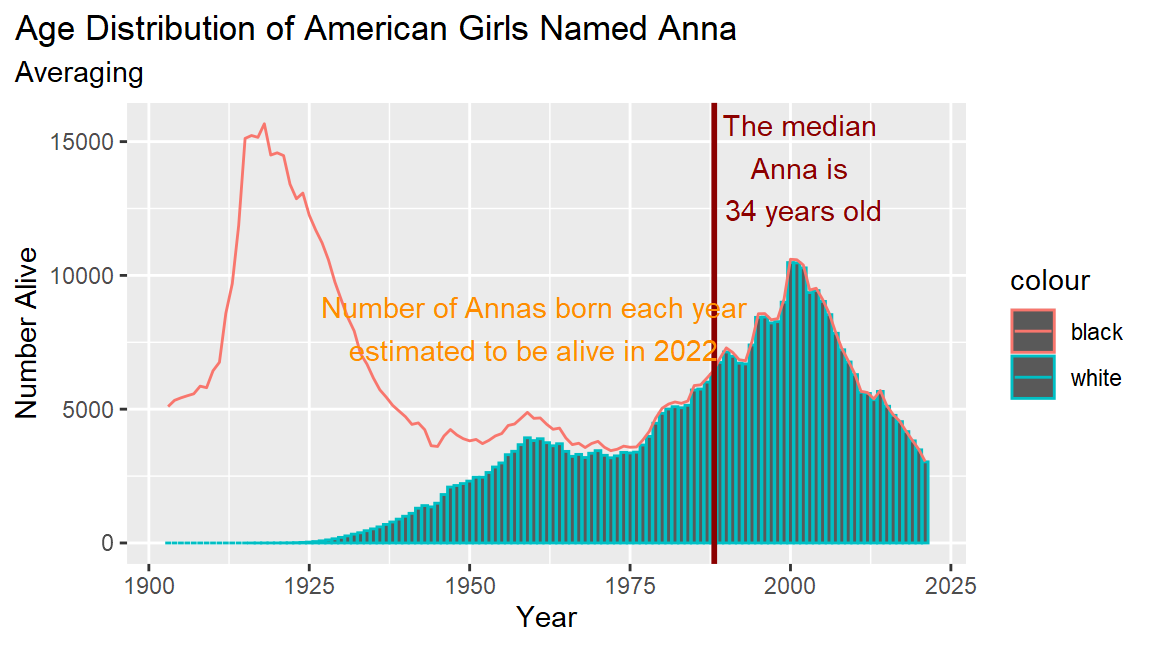
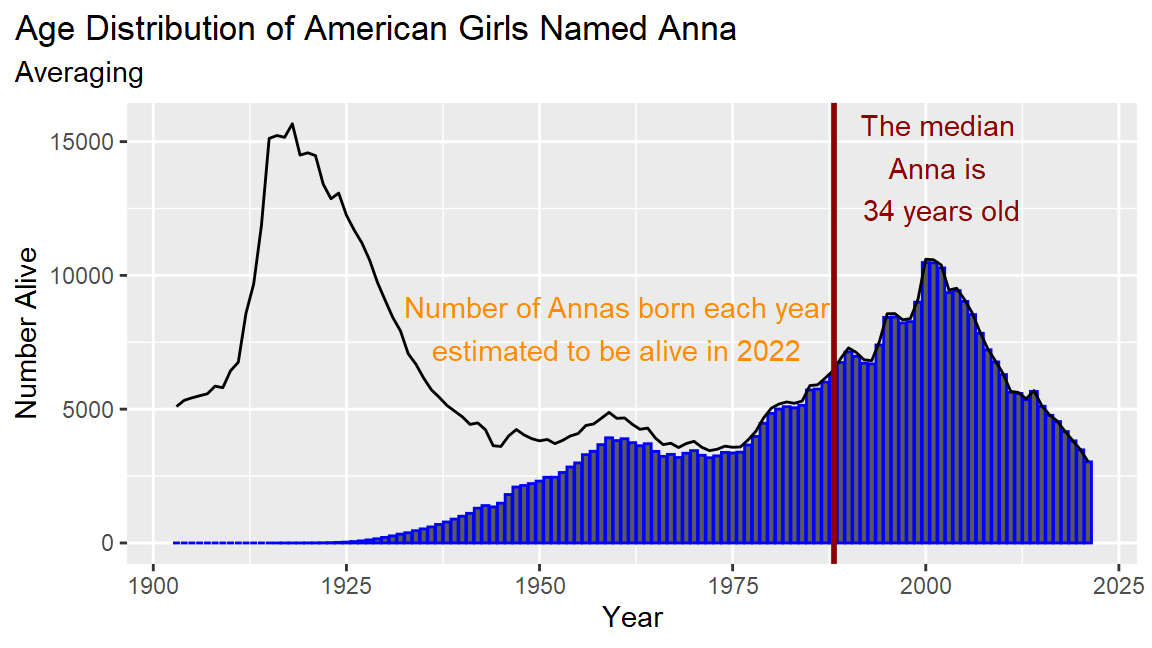
visualization rectified

diff --git a/projects/project-02/project-02-estimate-age-from-name.md b/projects/project-02/project-02-estimate-age-from-name.md
@@ -359,9 +359,9 @@ plot_estimated_age <- function(tbl, my_name, my_sex) {
     # Initialize a ggplot with x = year
     ggplot(aes(x = year)) +
     # Add a column layer with y = nb_alive, and appropriate colors
-    geom_col(aes(y = nb_alive, color = 'white')) +
+    geom_col(aes(y = nb_alive), color = 'blue') +
     # Add a line layer with y = nb_births, and appropriate colors
-    geom_line(aes(y = nb_births, color = 'black')) +
+    geom_line(aes(y = nb_births), color = 'black') +
     # Add a vertical line for the median age
     geom_vline(
       aes(xintercept = 2022 - age_median), 
